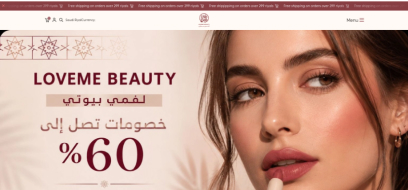
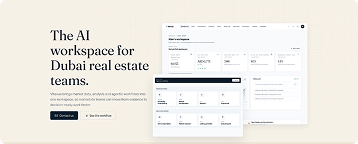
Testimonial, project changes

diff --git a/src/data/content.ts b/src/data/content.ts
@@ -1,6 +1,11 @@
 import { z } from "zod";
 import {
-  navItemSchema, serviceSchema, projectSchema, testimonialSchema, techSchema, clientSchema,
+  navItemSchema,
+  serviceSchema,
+  projectSchema,
+  testimonialSchema,
+  techSchema,
+  clientSchema,
 } from "@/lib/schemas";
 
 // Every collection is parsed with Zod, so malformed content fails loudly at build time.
@@ -22,47 +27,149 @@ export const clients = z.array(clientSchema).parse([
 ]);
 
 export const services = z.array(serviceSchema).parse([
-  { slug: "web-development", title: "Web Development", icon: "globe", description: "Custom web applications built with modern frameworks, optimized for performance and scalability." },
-  { slug: "mobile-app-development", title: "Mobile App Development", icon: "phone", description: "Native and cross-platform mobile apps for iOS and Android with seamless user experiences." },
-  { slug: "ui-ux-design", title: "UI/UX Design", icon: "layers", description: "User-centered design that converts. From wire frames to polished interfaces, we craft every pixel." },
-  { slug: "cloud-devops", title: "Cloud & DevOps", icon: "cloud", description: "Cloud infrastructure setup, CI/CD pipelines, and DevOps best practices to ship faster." },
-  { slug: "cybersecurity", title: "Cybersecurity", icon: "shield", description: "Comprehensive security audits, penetration testing, and ongoing threat monitoring." },
-  { slug: "data-analytics", title: "Data Analytics", icon: "chart", description: "Turn raw data into actionable insights with custom dashboards, ML models, and BI tools." },
+  {
+    slug: "web-development",
+    title: "Web Development",
+    icon: "globe",
+    description:
+      "Custom web applications built with modern frameworks, optimized for performance and scalability.",
+  },
+  {
+    slug: "mobile-app-development",
+    title: "Mobile App Development",
+    icon: "phone",
+    description:
+      "Native and cross-platform mobile apps for iOS and Android with seamless user experiences.",
+  },
+  {
+    slug: "ui-ux-design",
+    title: "UI/UX Design",
+    icon: "layers",
+    description:
+      "User-centered design that converts. From wire frames to polished interfaces, we craft every pixel.",
+  },
+  {
+    slug: "cloud-devops",
+    title: "Cloud & DevOps",
+    icon: "cloud",
+    description:
+      "Cloud infrastructure setup, CI/CD pipelines, and DevOps best practices to ship faster.",
+  },
+  {
+    slug: "cybersecurity",
+    title: "Cybersecurity",
+    icon: "shield",
+    description:
+      "Comprehensive security audits, penetration testing, and ongoing threat monitoring.",
+  },
+  {
+    slug: "data-analytics",
+    title: "Data Analytics",
+    icon: "chart",
+    description:
+      "Turn raw data into actionable insights with custom dashboards, ML models, and BI tools.",
+  },
 ]);
 
 export const projects = z.array(projectSchema).parse([
-  { slug: "dydonai", title: "DydonAI", tag: "AI Solution", image: "/Dashboard-full-Single-Projects-1.jpg", categories: ["AI", "Web Dev"], stack: ["Python", "React JS"], accent: "#1E2A5E", image: "/Dashboard-full-Single-Projects-1.jpg", description: "Empowering financial institutions with AI-driven ESG analytics, climate risk insights, and compliance." },
-  { slug: "cv-builder", title: "CV Builder", tag: "Web Application", image: "/cv-builder.jpg", categories: ["Web Dev", "AI"], stack: ["Vue JS", "Spring Boot"], accent: "#3B82F6", description: "Build professional, ATS-friendly resumes in minutes with AI assistance." },
-  { slug: "lovemebeauty", title: "LoveMeBeauty", tag: "E-commerce", image: "/lovemebeauty.jpg", categories: ["Web Dev", "UI/UX"], stack: ["PHP", "JavaScript"], accent: "#8B5A3C", description: "A modern e-commerce platform for beauty and wellness brands." },
+  {
+    slug: "dydonai",    title: "DydonAI",    tag: "AI Solution",    image: "/Dashboard-full-Single-Projects-1.jpg",    categories: ["AI", "Web Dev"],    stack: ["Nuxt Js", "Spring Boot"],
+    accent: "#1E2A5E",    image: "/Dashboard-full-Single-Projects-1.jpg", url: "https://dydon.ai",   description: "Empowering financial institutions with AI-driven ESG analytics, climate risk insights, and compliance.",  
+  },
+  
+  {
+    slug: "lovemebeauty",    title: "Vitevue",    tag: "Real Estate",    image: "/lovemebeauty.jpg",    categories: ["Web Dev", "DevOps"],    stack: ["Svelte ", "Fast API"],    accent: "#8B5A3C", url: "https://vitevue.com/",   description:
+      "Vitevue brings market data, analysis and agentic workflows into one workspace.",  
+  },
+  {
+    slug: "cv-builder",
+    title: "CV Builder",
+    tag: "Web Application",
+    image: "/cv-builder.jpg",
+    categories: ["Web Dev", "AI"],
+    stack: ["Next JS", "Python"],
+    accent: "#3B82F6",  url: "https://www.radiusai.online/",
+    description:
+      "Build professional, ATS-friendly resumes in minutes with AI assistance.",
+  },
 ]);
 
 export const testimonials = z.array(testimonialSchema).parse([
-  { quote: "GoalTec delivered an exceptional AI-driven compliance system that transformed our operations. Their technical expertise and commitment to quality truly set them apart.", name: "Sarah Johnson", role: "CTO", company: "DydonAI", rating: 5 },
-  { quote: "Working with GoalTec was a smooth experience from start to finish. They understood our complex requirements and delivered a robust solution that exceeded our expectations.", name: "Mark Williams", role: "Project Manager", company: "Sainsbury", rating: 5 },
-  { quote: "GoalTec helped us build our e-commerce platform from the ground up. Their attention to detail and responsive communication made the entire process seamless.", name: "Jennifer Lee", role: "CEO", company: "LoveMeBeauty", rating: 4},
-  { quote: "The team at GoelTec demonstrated exceptional technical knowledge and problem-solving skills. They delivered our knowledge management platform ahead of schedule and within budget.", name: "David Chen", role: "Director", company: "Thinkfully", rating: 4},
-  { quote: "Partnering with GoalTec was seamless from beginning to end. They grasped our intricate requirements right away and built a reliable solution that went well beyond what we anticipated.", name: "Mark Waugh", role: "Manager", company: "Sainsbury", rating: 4},
-  { quote: "We had a fantastic, hassle-free experience working with GoalTec. They really took the time to understand our complex needs and delivered a solid solution that blew us away.", name: "Jet Lee", role: "COO", company: "Finance", rating: 4 },
+  {
+    quote:
+      "GoalTec delivered an exceptional AI-driven compliance system that transformed our operations. Their technical expertise and commitment to quality truly set them apart.",
+    name: "Sarah Johnson",
+    role: "CTO",
+    company: "DydonAI",
+    rating: 5,
+  },
+  {
+    quote:
+      "Working with GoalTec was a smooth experience from start to finish. They understood our complex requirements and delivered a robust solution that exceeded our expectations.",
+    name: "Mark Williams",
+    role: "Project Manager",
+    company: "Sainsbury",
+    rating: 5,
+  },
+  {
+    quote:
+      "GoalTec helped us build our e-commerce platform from the ground up. Their attention to detail and responsive communication made the entire process seamless.",
+    name: "Jennifer Lee",
+    role: "CEO",
+    company: "LoveMeBeauty",
+    rating: 4,
+  },
+  {
+    quote:
+      "The team at GoelTec demonstrated exceptional technical knowledge and problem-solving skills. They delivered our knowledge management platform ahead of schedule and within budget.",
+    name: "David Chen",
+    role: "Director",
+    company: "Thinkfully",
+    rating: 4,
+  },
+  {
+    quote:
+      "Partnering with GoalTec was seamless from beginning to end. They grasped our intricate requirements right away and built a reliable solution that went well beyond what we anticipated.",
+    name: "Mark Waugh",
+    role: "Manager",
+    company: "Sainsbury",
+    rating: 4,
+  },
+  {
+    quote:
+      "We had a fantastic, hassle-free experience working with GoalTec. They really took the time to understand our complex needs and delivered a solid solution that blew us away.",
+    name: "Jet Lee",
+    role: "COO",
+    company: "Finance",
+    rating: 4,
+  },
 ]);
 
 export const techStack = z.array(techSchema).parse([
   { name: "Python", abbr: "Py", image: "/tech/python.svg" },
-  { name: "React", abbr: "Re",  image: "/tech/react.svg" },
-  { name: "Node.js", abbr: "JS",  image: "/tech/java.svg" },
-  { name: "Next.js", abbr: "N" ,  image: "/tech/nextjs.svg"},
-  { name: "AWS", abbr: "aws" ,  image: "/tech/aws.svg" },
-  { name: "Azure", abbr: "Az",  image: "/tech/azure.svg" },
-  { name: "Docker", abbr: "Dk",  image: "/tech/docker.svg" },
-  { name: "Kubernetes", abbr: "K8s",  image: "/tech/kubernetes.svg" },
+  { name: "React", abbr: "Re", image: "/tech/react.svg" },
+  { name: "Node.js", abbr: "JS", image: "/tech/java.svg" },
+  { name: "Next.js", abbr: "N", image: "/tech/nextjs.svg" },
+  { name: "AWS", abbr: "aws", image: "/tech/aws.svg" },
+  { name: "Azure", abbr: "Az", image: "/tech/azure.svg" },
+  { name: "Docker", abbr: "Dk", image: "/tech/docker.svg" },
+  { name: "Kubernetes", abbr: "K8s", image: "/tech/kubernetes.svg" },
 ]);
 
 export const footerLinks = {
   quick: ["Home", "Services", "Projects", "Clients", "About Us", "Contact"],
-  services: ["Web Development", "Software Solutions", "Data Services", "Cloud Computing", "AI Solutions"],
+  services: [
+    "Web Development",
+    "Software Solutions",
+    "Data Services",
+    "Cloud Computing",
+    "AI Solutions",
+  ],
 };
 
 export const company = {
   email: "info@goaltec.solutions",
   address: "623, Krishna Business Center, Vijay Nagar, Indore",
-  blurb: "Passionate IT service provider with extensive experience in software development, web applications, and digital transformation.",
+  blurb:
+    "Passionate IT service provider with extensive experience in software development, web applications, and digital transformation.",
 };

diff --git a/src/components/sections/ProjectsSection.tsx b/src/components/sections/ProjectsSection.tsx
@@ -11,61 +11,125 @@ import Image from "next/image";
 const filters = ["All", ...projectCategorySchema.options] as const;
 type Filter = (typeof filters)[number];
 
-export function ProjectsSection({ projects, showCta = true }: { projects: Project[]; showCta?: boolean }) {
+export function ProjectsSection({
+  projects,
+  showCta = true,
+}: {
+  projects: Project[];
+  showCta?: boolean;
+}) {
   const [active, setActive] = useState<Filter>("All");
   const visible = useMemo(
-    () => (active === "All" ? projects : projects.filter((p) => p.categories.includes(active as ProjectCategory))),
-    [active, projects],
+    () =>
+      active === "All"
+        ? projects
+        : projects.filter((p) =>
+            p.categories.includes(active as ProjectCategory)
+          ),
+    [active, projects]
   );
 
   return (
     <section id="projects" className="bg-black px-6 py-20 project-section">
-      <SectionHeading dark eyebrow="OUR PORTFOLIO" title="Our" accent="Projects"
-        subtitle="A selection of work we are proud of — each one built with a specific business outcome in mind." />
+      <SectionHeading
+        dark
+        eyebrow="OUR PORTFOLIO"
+        title="Our"
+        accent="Projects"
+        subtitle="A selection of work we are proud of — each one built with a specific business outcome in mind."
+      />
 
-      <div role="tablist" aria-label="Filter projects" className="mt-10 flex flex-wrap justify-center gap-3">
+      <div
+        role="tablist"
+        aria-label="Filter projects"
+        className="mt-10 flex flex-wrap justify-center gap-3"
+      >
         {filters.map((f) => (
-          <button key={f} role="tab" aria-selected={active === f} onClick={() => setActive(f)}
-            className={`rounded-full px-8 py-2 text-xs transition-colors ${active === f ? "bg-gold text-black" : "bg-ink-card text-white hover:bg-white/10"}`}>
+          <button
+            key={f}
+            role="tab"
+            aria-selected={active === f}
+            onClick={() => setActive(f)}
+            className={`rounded-full px-8 py-2 text-xs transition-colors ${
+              active === f
+                ? "bg-gold text-black"
+                : "bg-ink-card text-white hover:bg-white/10"
+            }`}
+          >
             {f}
           </button>
         ))}
       </div>
 
       <div className="mx-auto mt-10 grid max-w-page gap-6 md:grid-cols-2 lg:grid-cols-3">
-        {visible.map((p) => <ProjectCard key={p.slug} project={p} />)}
+        {visible.map((p) => (
+          <ProjectCard key={p.slug} project={p} />
+        ))}
       </div>
-      {visible.length === 0 && <p className="mt-10 text-center text-sm text-white/60">No projects in this category yet.</p>}
-      {showCta && <div className="mt-12 text-center"><ButtonLink href="/projects" arrow>View All Features</ButtonLink></div>}
+      {visible.length === 0 && (
+        <p className="mt-10 text-center text-sm text-white/60">
+          Coming soon...
+        </p>
+      )}
+      {showCta && (
+        <div className="mt-12 text-center">
+          <ButtonLink href="/projects" arrow>
+            View All Features
+          </ButtonLink>
+        </div>
+      )}
     </section>
   );
 }
 
 function ProjectCard({ project: p }: { project: Project }) {
   return (
-    <article id={p.slug} className="rounded-xl border border-gold bg-ink-card p-3 project-article">
+    <article
+      id={p.slug}
+      className="rounded-xl border border-gold bg-ink-card p-3 project-article"
+    >
+      <div
+        className="relative h-36 overflow-hidden rounded-md"
+        style={{ background: p.accent }}
+      >
+        {p.image && (
+          <Image
+            src={p.image}
+            alt={`${p.title} screenshot`}
+            fill
+            sizes="(min-width: 1024px) 380px, (min-width: 768px) 50vw, 100vw"
+            className="object-cover object-top"
+          />
+        )}
+      </div>
 
-      <div className="relative h-36 overflow-hidden rounded-md" style={{ background: p.accent }}>
-  {p.image && (
-    <Image
-      src={p.image}
-      alt={`${p.title} screenshot`}
-      fill
-      sizes="(min-width: 1024px) 380px, (min-width: 768px) 50vw, 100vw"
-      className="object-cover object-top"
-    />
-  )}
-</div>
-      
-      <div className=""  aria-hidden />
+      <div className="" aria-hidden />
       <div className="p-3">
-        <span className="inline-block rounded-full bg-white px-3 py-1 text-[11px] text-black">{p.tag}</span>
+        <span className="inline-block rounded-full bg-white px-3 py-1 text-[11px] text-black">
+          {p.tag}
+        </span>
         <h3 className="mt-4 font-semibold">{p.title}</h3>
-        <p className="mt-2 min-h-[3.5rem] text-xs leading-relaxed text-white/70">{p.description}</p>
+        <p className="mt-2 min-h-[3.5rem] text-xs leading-relaxed text-white/70">
+          {p.description}
+        </p>
         <ul className="mt-4 flex flex-wrap gap-2">
-          {p.stack.map((s) => <li key={s} className="rounded border border-white/60 px-2 py-0.5 text-[10px]">{s}</li>)}
+          {p.stack.map((s) => (
+            <li
+              key={s}
+              className="rounded border border-white/60 px-2 py-0.5 text-[10px]"
+            >
+              {s}
+            </li>
+          ))}
         </ul>
-        <Link href="/contact" className="mt-5 inline-flex items-center gap-1 text-xs text-gold">Learn more <ArrowRight size={12} aria-hidden /></Link>
+        <a
+          href={p.url}
+          target="_blank"
+          rel="noopener noreferrer"
+          className="mt-5 inline-flex items-center gap-1 text-xs text-gold"
+        >
+          Learn more <ArrowRight size={12} aria-hidden />
+        </a>
       </div>
     </article>
   );

diff --git a/src/components/sections/Testimonials.tsx b/src/components/sections/Testimonials.tsx
@@ -1,4 +1,3 @@
-
 "use client";
 import { useEffect, useRef, useState } from "react";
 import { ArrowLeft, ArrowRight } from "lucide-react";
@@ -87,10 +86,10 @@ export function Testimonials({ items }: { items: Testimonial[] }) {
               >
                 <figure
                   className={`h-full rounded-xl p-6 transition-transform duration-300 hover:-translate-y-1 motion-reduce:transition-none ${
-                    t.featured ? "bg-gold text-black" : "bg-ink-card"
+                    i % 2 === 1 ? "bg-gold text-black" : "bg-ink-card"
                   }`}
                 >
-                  <Stars rating={t.rating} />
+                  <Stars rating={t.rating} className={i % 2 === 1 ? "fill-black text-black" : "fill-white text-white"} />
                   <blockquote className="mt-4 min-h-[8rem] text-sm leading-relaxed">“{t.quote}”</blockquote>
                   <figcaption className="mt-6 flex items-center gap-3">
                     <span className="grid h-10 w-10 place-items-center rounded-full bg-white/20 text-xs font-semibold">
@@ -98,7 +97,7 @@ export function Testimonials({ items }: { items: Testimonial[] }) {
                     </span>
                     <span>
                       <span className="block font-semibold">{t.name}</span>
-                      <span className={`text-xs ${t.featured ? "text-black/70" : "text-white/70"}`}>
+                      <span className={`text-xs ${i % 2 === 1 ? "text-black/70" : "text-white/70"}`}>
                         {t.role} • {t.company}
                       </span>
                     </span>

diff --git a/src/components/ui/Stars.tsx b/src/components/ui/Stars.tsx
@@ -1,10 +1,12 @@
 import { Star } from "lucide-react";
 
-export function Stars({ rating, size = 14 }: { rating: number; size?: number }) {
+type Props = { rating: number; size?: number; className?: string };
+
+export function Stars({ rating, size = 14, className = "fill-gold text-gold" }: Props) {
   return (
     <span className="inline-flex gap-0.5" role="img" aria-label={`${rating} out of 5 stars`}>
       {Array.from({ length: 5 }, (_, i) => (
-        <Star key={i} size={size} className={i < rating ? "fill-gold text-gold" : "text-gray-400"} aria-hidden />
+        <Star key={i} size={size} className={i < rating ? className : "text-gray-400"} aria-hidden />
       ))}
     </span>
   );

diff --git a/src/lib/schemas.ts b/src/lib/schemas.ts
@@ -28,6 +28,7 @@ export const projectSchema = z.object({
   stack: z.array(z.string()).min(1),
   accent: z.string().regex(/^#([0-9a-fA-F]{6})$/, "Must be a hex color"),
   image: z.string().startsWith("/", "Image path must start with /").optional(),
+  url: z.string().url("Must be a full URL, e.g. https://example.com"),
 });
 
 export const testimonialSchema = z.object({
